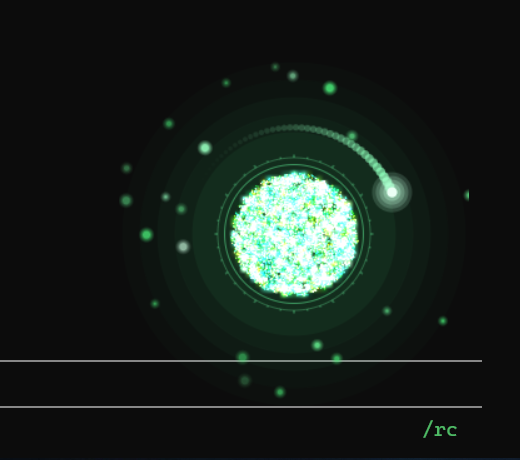
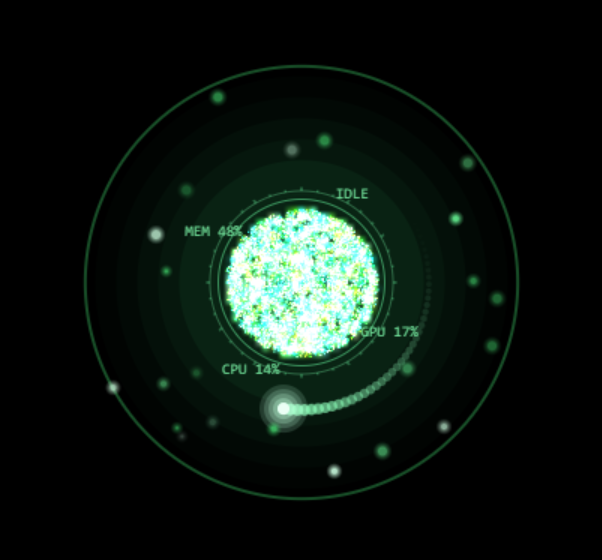
Update demo screenshot to show live corner labels

diff --git a/README.md b/README.md
@@ -29,7 +29,7 @@ recognizer is inventing words out of silence.
 
 ## Demo
 
-![The face widget running on the desktop](face-widget/face-widget-running.png)
+<img src="face-widget/face-widget-running.png" width="400" alt="The face widget on the desktop, showing agent state, memory, GPU, and CPU in the corner labels">
 
 The ring is a frameless, always on top window with real per pixel
 transparency. It idles, listens, thinks and speaks in step with the live voice
